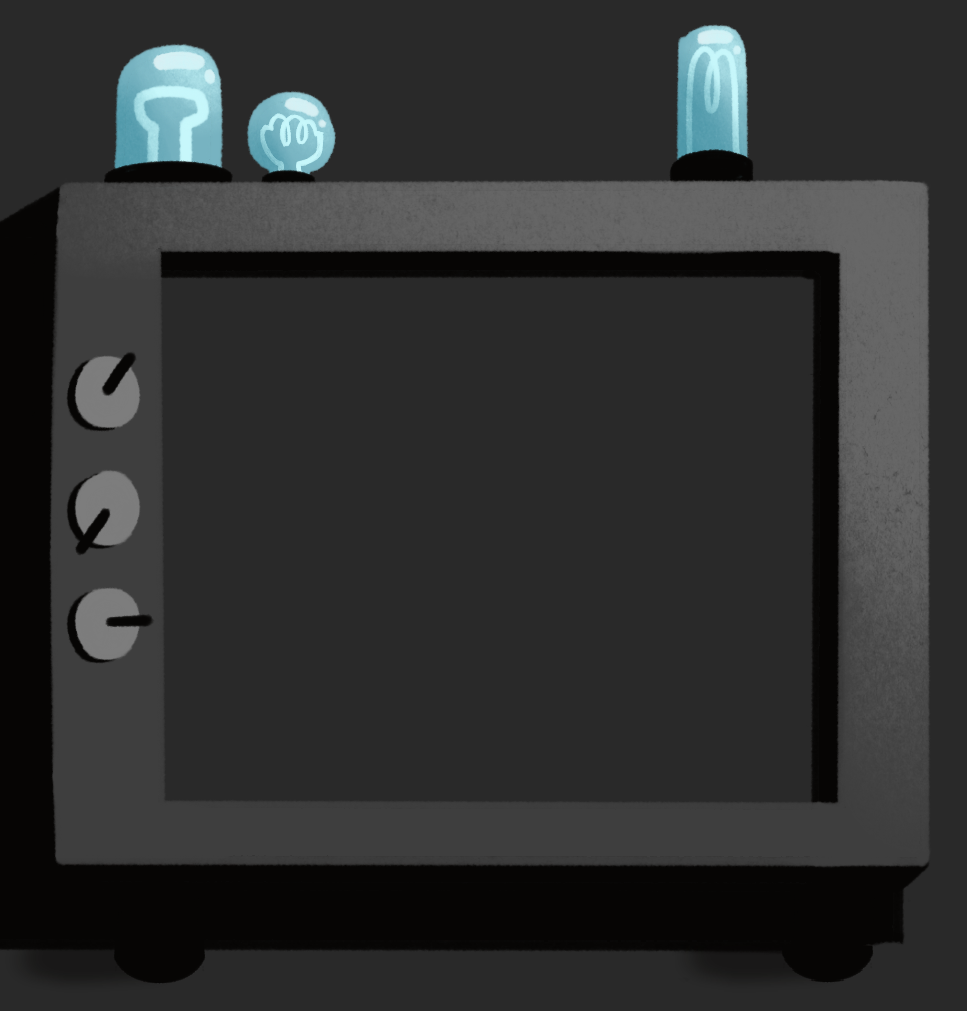
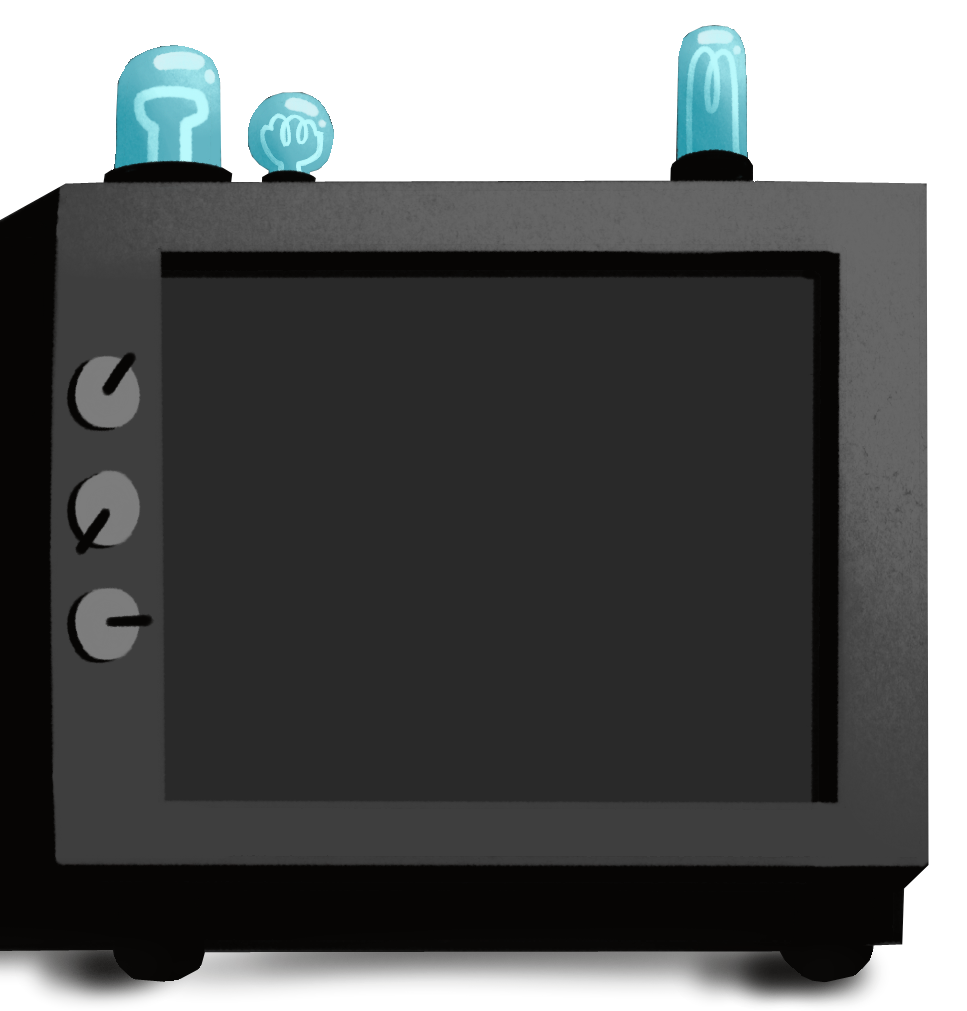
Added Final Assets and Finalizing css

Changed region(s): [[0.0, 0.0, 1.0, 1.0]]

diff --git a/css/lab.css b/css/lab.css
@@ -13,10 +13,21 @@ p {
 
 body {
   /* background-color: lightblue; */
-  background-image: url(https://cdn.discordapp.com/attachments/230200713551020034/1048763218891386981/Background_Morgan.png);
-  background-repeat: no-repeat;
-  background-size: 100%;
+  background-image: url(https://cdn.discordapp.com/attachments/230200713551020034/1048934685163651133/Background_TV_Morgan.png),
+  url(https://cdn.discordapp.com/attachments/230200713551020034/1048938821590462494/Background_Floor_Morgan1.png),
+  url(https://cdn.discordapp.com/attachments/230200713551020034/1048763218891386981/Background_Morgan.png);
+  background-repeat: no-repeat, no-repeat, repeat-y;
+  background-size: 35%, 100%, 100%;
+  background-position: left bottom
   /* background-color: lightblue; */
+}
+
+/* Roy Avatar */
+#roy {
+  width: 25%;
+  position: relative;
+  top: auto;
+  float: right;
 }
 
 /* Text Bubble Speech*/
@@ -28,6 +39,7 @@ body {
   border-radius: 15px;
   text-align: center;
   font-weight: 900;
+  opacity: 80%;
   color: #fff;
   font-family: arial;
   position:relative;
@@ -72,6 +84,7 @@ body {
   text-align: center;
   text-decoration: none;
   outline: none;
+  float: left;
   color: #fff;
   background-color: #4CAF50;
   border: none;
@@ -87,16 +100,7 @@ body {
   transform: translateY(4px);
 }
 
-#colors li {
-  padding: 8px 16px;
-  border-bottom: 1px solid black;
-}
-
-#colors li:last-child {
-  border-bottom: none;
-}
-
-#colorButton {
+.buttonbg {
   padding: 15px 25px;
   font-size: 24px;
   text-align: center;
@@ -109,35 +113,57 @@ body {
   box-shadow: 0 9px #999;
 }
 
+#colors li {
+  padding: 8px 16px;
+  border-bottom: 1px solid black;
+}
+
+#colors li:last-child {
+  border-bottom: none;
+}
+
+#colorButton {
+
+}
+
 .button:hover {background-color: #3e8e41}
 
 .button:active {
   background-color: #3e8e41;
-  box-shadow: 0 5px #666
+  /* box-shadow: 0 5px #666 */
   tranform: translateY(4px);
 }
 
-.bodyParagraphs {
+
+/* Pop-up red box*/
+.popupSpan {
+  position: 100px 100px;
+  float: left;
+  margin-left: 35px;
+  margin-top: 5px;
+  font-size: 25px;
+  font-family: monospace;
+  border: 3px solid darkred;
+  border-radius: 15px;
+  background-color: tomato;
+  height: 30px;
+  width: 500px;
+}
+
+.popupId {
   border: 3px solid tomato;
   padding: 15px 20px;
 }
 
+.bodyParagraphs {
+  margin: 45px 66px;
+  /* border: 3px solid tomato; */
+  padding: 15px 20px;
+  position: relative;
+}
+
 .bodyParagraphs h2 {
   margin: 15px 0px;
-}
-
-/* Roy Avatar */
-#roy {
-  width: 25%;
-  position: relative;
-  float: right;
-}
-
-/* TV */
-#tv {
-  width: 25%;
-  float: left;
-  position: sticky;
 }
 
 
@@ -156,17 +182,19 @@ body {
 /* Slow text reveal for Roy's speech  (Doesnt work yet sadge)*/
 #quote {
   color: black;
+  animation: reveal;
+  animation-iteration-count: 0.5s;
 }
-@keyframes animate {
-        0% {
+@keyframes transition {
+        0% {transition:
             width: 0px;
             height: 0px;
         }
-        30% {
+        30% {transition:
             width: 10px;
             height: 10px;
         }
-        60% {
+        60% {transition:
             width: 50px;
             height: 80px;
         }

diff --git a/js/lab.js b/js/lab.js
@@ -303,12 +303,12 @@ var textLines =
     { string: "Surely, this one will be the one! ~", speed: speeds.normal},
     { string: "This one is just ~calling~ your name!", speed: speeds.normal}],
   frustratedQuotes: [
-    { string: "Alright buddy, please decide on a color pallete soon. I have customers waiting...", speed: speeds.normal},
+    { string: "Alright buddy, please decide on a color palette soon. I have customers waiting...", speed: speeds.normal},
     { string: "I need to get to the next customer. Please pick one as soon as possible.", speed: speeds.normal},
     { string: "Look, I appreciate your adventurous spirit, but you need to choose a palette.", speed: speeds.normal},
     { string: "There's so many colors, surely you've found the right one by now?", speed: speeds.normal}],
   angryQuotes: [
-    { string: "We don't have that color in stock sir. Would you perhaps like to try again tomorrow?", speed: speeds.normal},
+    { string: "We don't have that color in stock sir. Would you like to try again tomorrow?", speed: speeds.normal},
     { string: "I'm going to have to ask you to leave the store.", speed: speeds.normal},
     { string: "Excuse me?! What did you say?!", speed: speeds.normal},
     { string: "...", speed: speeds.normal},

diff --git a/index.html b/index.html
@@ -27,6 +27,7 @@
 	<div class="box sb1">
 		<h2 id = "quote">Hello, welcome in! My name is Roy, and this is my Color Palette Generator!
 		<br>Would you like to try out some colors?</h2>
+		<br>
 	</div>
 
 
@@ -45,7 +46,7 @@
 		<!--<img id="tv" src="img/Background_TV_Morgan.png"> -->
 		<br>
 
-		<button id="colorButton">Click me to do something!</button>
+		<button class="button","buttonbg" id="colorButton">Click me to Generate Colors!</button>
 
 	</div>
 
